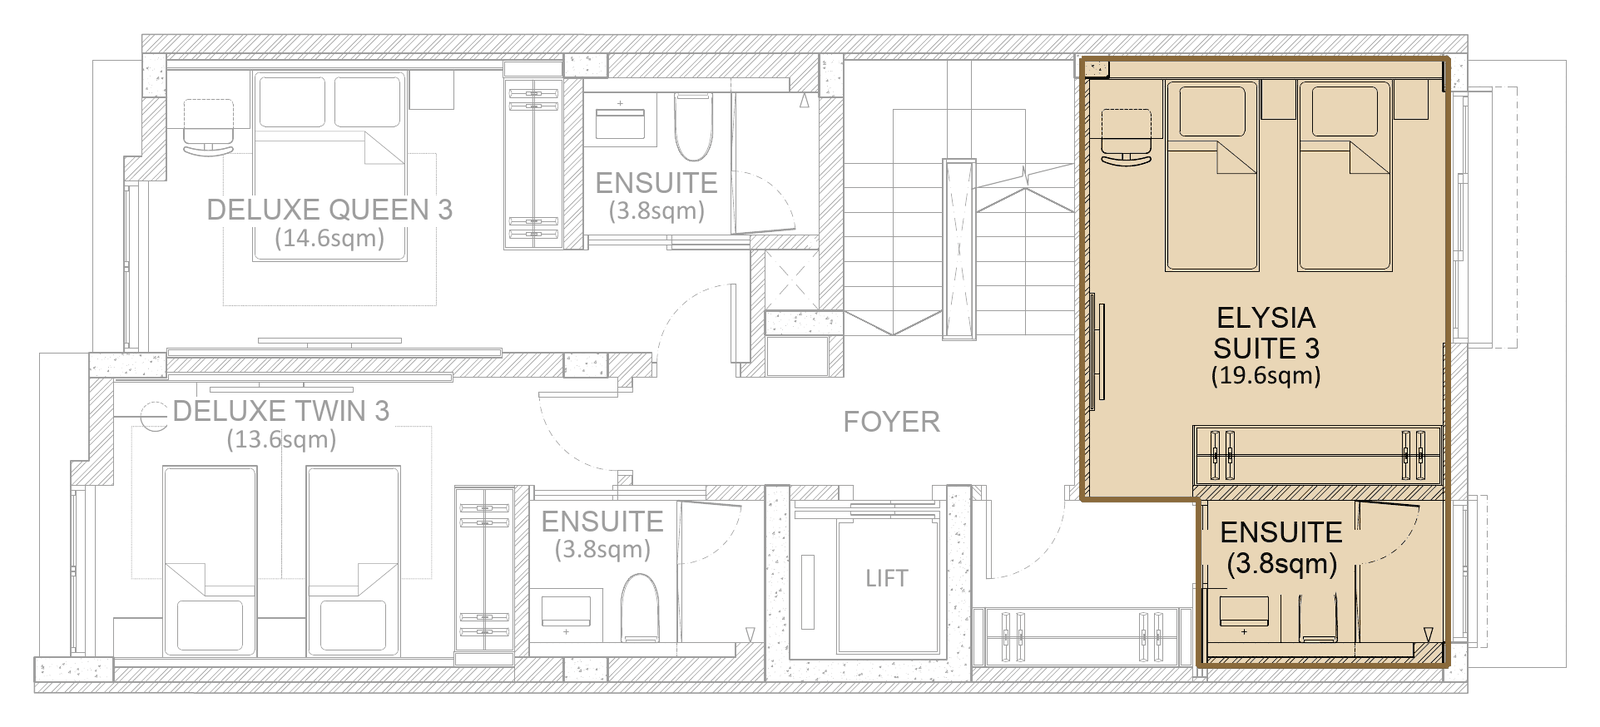
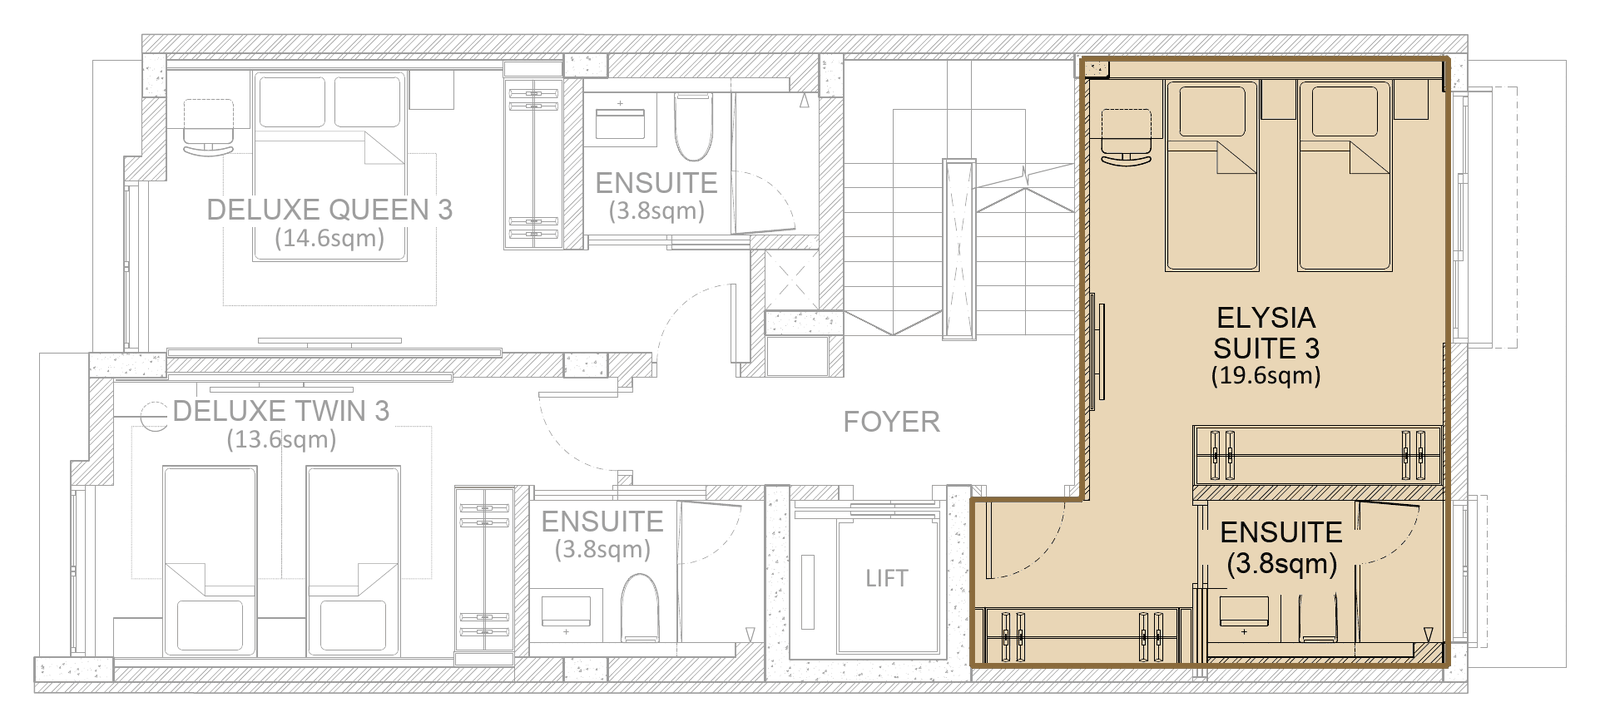
Rooms floor plans: Elysia Suites 3 and 4 include their entry lobby (wardrobe and room door)

Changed region(s): [[0.5938, 0.6657, 0.75, 0.9381]]

diff --git a/tools/floor_plans.py b/tools/floor_plans.py
@@ -64,7 +64,8 @@ P = {
     "dt-ground":  (1, [(200, 450), (880, 450), (880, 590), (1000, 590), (1000, 790), (200, 790)]),
     "dq-upper":   (None, [(150, 70), (985, 70), (985, 292), (900, 292), (900, 425), (150, 425)]),
     "dt-upper":   (None, [(85, 455), (780, 455), (780, 600), (920, 600), (920, 800), (85, 800)]),
-    "el-upper":   (None, [(1300, 70), (1740, 70), (1740, 800), (1440, 800), (1440, 600), (1300, 600)]),
+    # Elysia includes its entry lobby left of the ensuite: wardrobe + room door (PK)
+    "el-upper":   (None, [(1300, 70), (1740, 70), (1740, 800), (1168, 800), (1168, 600), (1300, 600)]),
     "aurelia":    (5, [(140, 70), (1000, 70), (1000, 400), (905, 400), (905, 790), (140, 790)]),
     "foyer-5":    (5, [(905, 400), (1168, 400), (1168, 588), (905, 588)]),
     "dq1-terr":   (1, [(182, 62), (268, 62), (268, 422), (140, 422)]),
